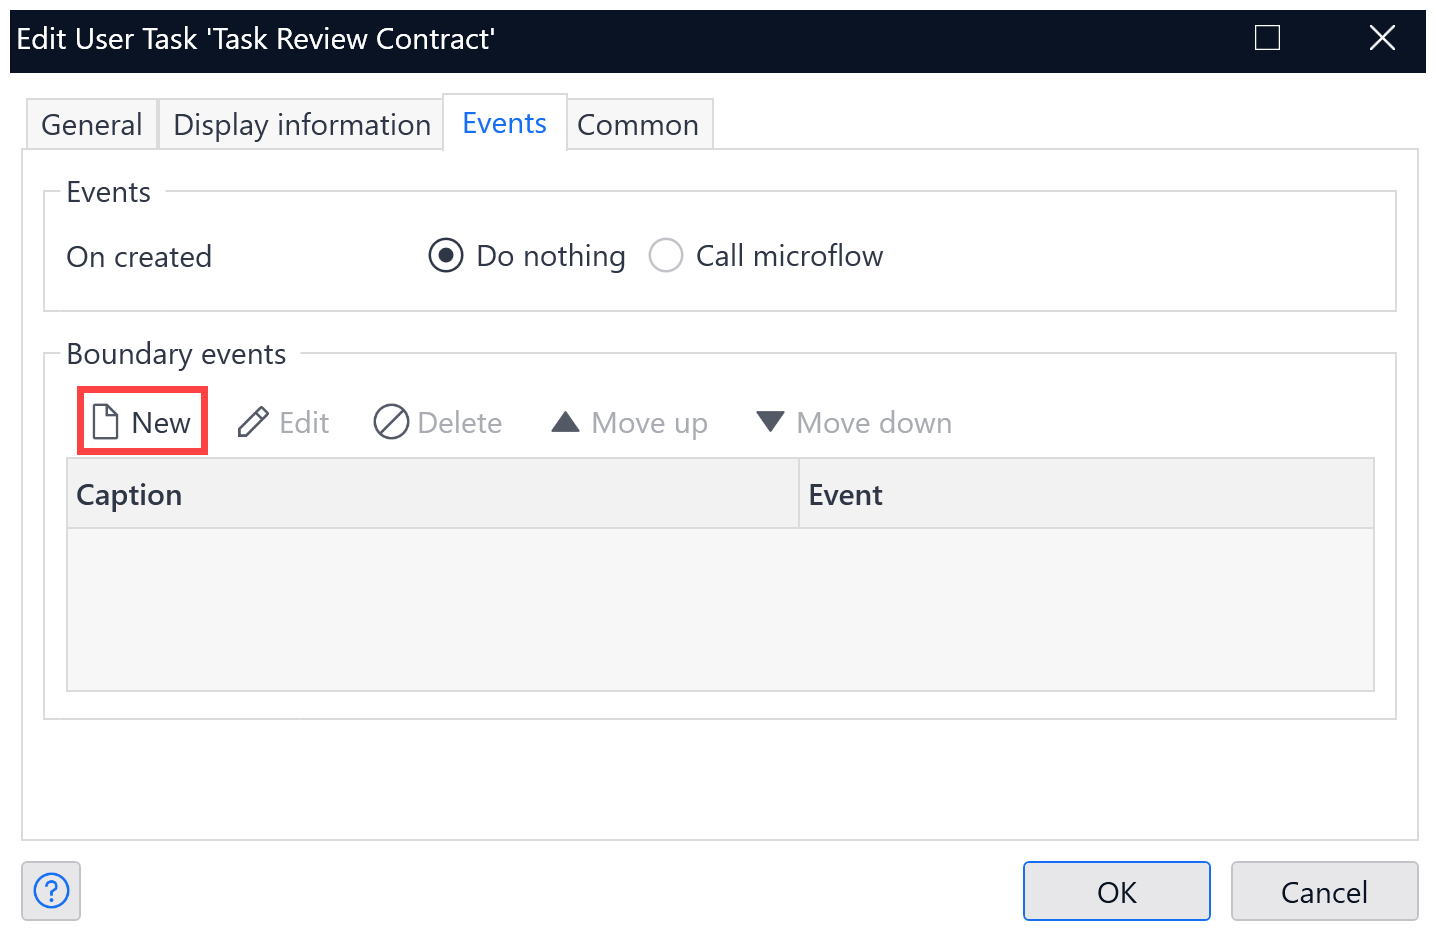
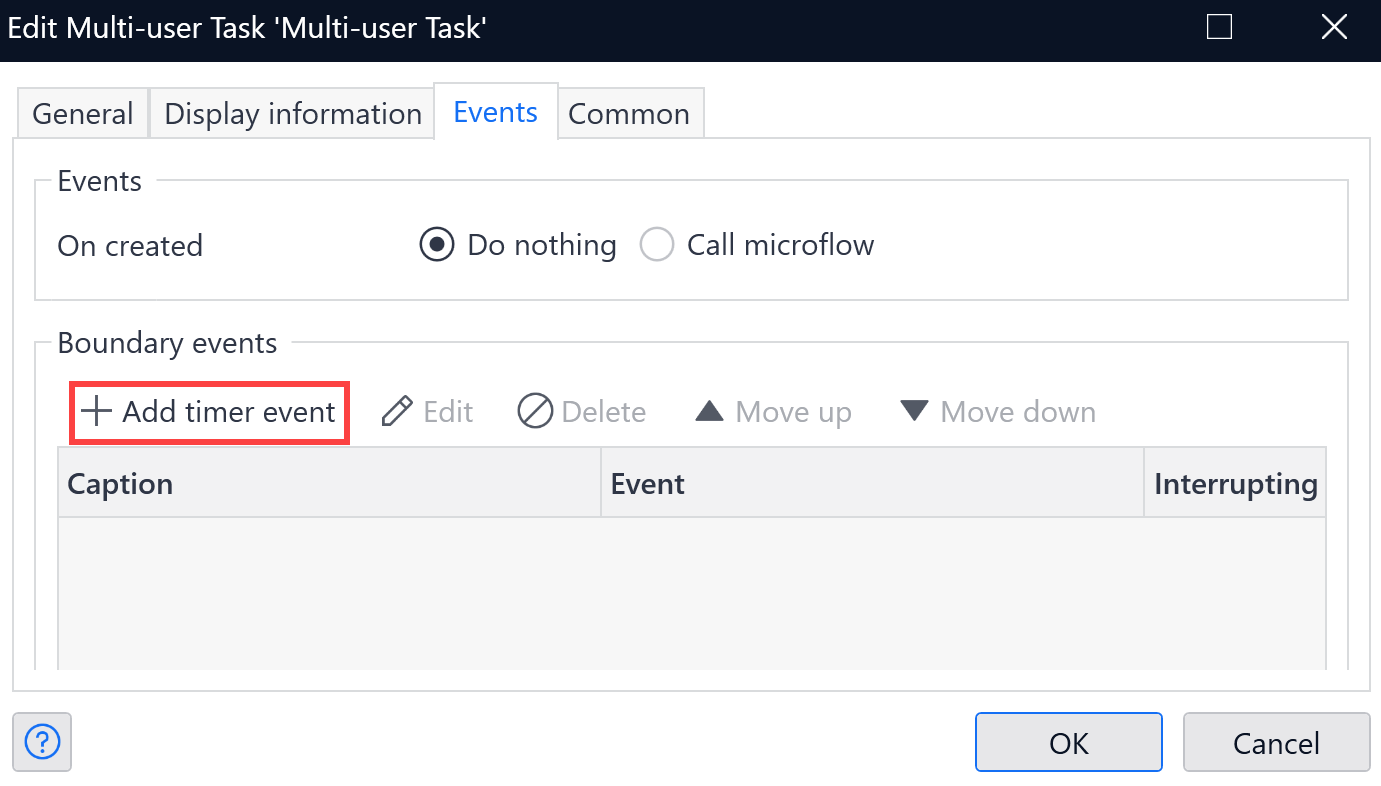
Review structure, language, and screenshots

diff --git a/content/en/docs/refguide/modeling/application-logic/workflows/boundary-events.md b/content/en/docs/refguide/modeling/application-logic/workflows/boundary-events.md
@@ -5,8 +5,9 @@ weight: 20
 ---
 
 {{% alert color="info" %}}
-- Non-interrupting timer boundary events were in public beta in Studio Pro 10.15 and released in GA in Studio Pro 10.16.
-- Interrupting boundary events are as of 10.20 in an opt-in public beta. Please note that certain features or attributes may be subject to change and may contain bugs.
+Non-interrupting timer boundary events were introduced in beta in Studio Pro 10.15 and released in GA in Studio Pro 10.16.
+
+Interrupting timer boundary events were introduced in Studio Pro 10.20 and is currently in beta. Certain features or attributes are subject to change and may contain bugs. For more information, see [Beta and Experimental Releases](/releasenotes/beta-features/).
 {{% /alert %}}
 
 ## Introduction
@@ -16,12 +17,11 @@ Based on Business Process Model and Notation (BPMN) 2.0, boundary events are a t
 There are two main types of boundary events:
 
 * Non-interrupting boundary events: These events do not interrupt the ongoing activity. When triggered, they allow the activity to continue while simultaneously starting a new path from the boundary event. As per BPMN 2.0 specification, non-interrupting boundary events are visualized as two dashed circles with an icon in the center.
-* Interrupting boundary events: When these events are triggered, they interrupt the normal path of the activity they are attached to. The activity stops and the process flow is redirected to the boundary event's outgoing sequence path. As per BPMN 2.0 specification, interrupting boundary events are visualized as two solid circles. 
-    {{% alert color="info" %}}Interrupting boundary events are available as an opt-in public beta{{% /alert %}}
+* Interrupting boundary events (currently in beta): When these events are triggered, they interrupt the normal path of the activity they are attached to. The activity stops and the process flow is redirected to the boundary event's outgoing sequence path. As per BPMN 2.0 specification, interrupting boundary events are visualized as two solid circles.
 
 Boundary Events are always displayed by 2 circles (either solid or dashed) and are linked by a dotted line to the parent activity. The icon inside the event indicates the type of event. For example, a clock indicates that it is a timer boundary event.
 
-Below is an example of how a timer boundary event looks like:
+Below is an example of how a non-interrupting timer boundary event looks like:
 
 {{< figure src="/attachments/refguide/modeling/application-logic/workflows/boundary-events/drag-drop.png" alt="Adding boundary events through drag and drop" width="200" >}}
 
@@ -43,32 +43,39 @@ Studio Pro now supports the following boundary event:
 When a boundary event is added to an activity, this activity is also referred to as the parent activity of the boundary event.
 {{% /alert %}}
 
-### Enabling interrupting boundary events
-
-To get started with the new interrupting boundary events feature, these can be enabled by opening Studio Pro's settings and navigating to new features (this setting is only applicable during the beta).
-
-- Windows: Preferences -> New Features -> Enable interrupting timer boundary events (beta)
-- Mac (Beta): Preferences -> New Features -> Enable interrupting timer boundary events (beta)
-
-{{< figure src="/attachments/refguide/modeling/application-logic/workflows/workflow-elements/boundary-events/experimental-features.png" alt="Experimental option" width="450" class="no-border">}}
-
 ### Adding Boundary Events
+
+{{% alert color="info" %}}
+Currently, a timer boundary event is added by default since it is the only option.
+{{% /alert %}}
 
 To add a boundary event to the [above-listed activities](#supported-activities), choose one of the following ways:
 
-* Select an event from the **Events** section in the workflow **Toolbox** and drag it onto one of the activities listed above.
+* Select an event from the **Events** section in the workflow **Toolbox** and drag it onto one of the activities listed above:
 
     {{< figure src="/attachments/refguide/modeling/application-logic/workflows/boundary-events/drag-drop.png" alt="Adding boundary events through drag and drop" width="200" >}}
 
-* Right-click one of the above-listed activities to open its context menu, and click **Add boundary event**.
+* Right-click one of the above-listed activities to open its context menu, and click **Add boundary event**:
 
     {{< figure src="/attachments/refguide/modeling/application-logic/workflows/boundary-events/context-menu.png" alt="Adding boundary events through context menu" width="200" >}}
 
-* Double-click one of the above-listed activities to open its properties dialog box, go to the **Events** tab, and in the > **Boundary events** section, click **New** to add a new boundary event.
+* Double-click one of the above-listed activities to open its properties dialog box, go to the **Events** tab, and in the > **Boundary events** section, click **Add timer event** to add a timer boundary event:
 
     {{< figure src="/attachments/refguide/modeling/application-logic/workflows/boundary-events/edit-dialog.png" alt="Adding boundary events through edit dialog" width="450" >}}
 
 To configure the properties of a boundary event, double-click the event to open its properties dialog box. For more information on how to configure the properties of a timer boundary event, see the [Properties](/refguide/timer/#properties) section in *Timer*.
+
+#### Enabling and Adding Interrupting Boundary Events (Beta)
+
+Interrupting boundary events are currently in beta. To enable this feature, go to Studio Pro **Preferences** -> **New features** -> **Workflow editor** > **Enable interrupting timer boundary events (beta)**:
+
+{{< figure src="/attachments/refguide/modeling/application-logic/workflows/boundary-events/enable-interrupting-boundary-event.png" alt="Enable interrupting boundary event" width="450">}}
+
+After adding interrupting boundary events is enabled, the **Boundary properties** section shows up in the properties dialog box of a boundary event.
+
+By default, the **Interrupting** property is set to **No**, which means that it is by default adding a non-interrupting boundary event. To add an interrupting boundary event, set the **Interrupting** property to **Yes**. Click **OK** to save your configuration:
+
+{{< figure src="/attachments/refguide/modeling/application-logic/workflows/boundary-events/interrupting-property.png" alt="Changing the type of boundary event" width="450">}}
 
 ### Rearranging Boundary Events
 
@@ -84,20 +91,16 @@ You can rearrange boundary events in the following ways:
 
     {{% alert color="info" %}}This does not change the order execution of the paths, as this is dependent on the expiration of the timer.{{% /alert %}}
 
-### Adding interrupting boundary events
-
-Interrupting boundary events can be added by going to the properties of a non-interrupting boundary event. Within the properties of a boundary event is a radio button which sets either the boundary event to interrupting or non-interrupting. The type change however is only fullfilled when the OK button is pressed.
-
-{{< figure src="/attachments/refguide/modeling/application-logic/workflows/workflow-elements/boundary-events/radio-button.png" alt="Changing the type of boundary event" width="450" class="no-border">}}
-
 ## Execution
 
 Boundary events are initiated when their parent activity is initiated. For example, for a timer with a fixed duration, it will start its count down when the parent activity is initiated. When the parent activity is completed before any of the boundary events are triggered, none of the activities in the boundary event path will be executed and all timers will be cancelled.
 
-### Non-interrupting boundary events
+### Non-Interrupting Boundary Events
+
 With non-interrupting boundary events the parent activity remains active/in progress when an event is triggered (i.e., the parent activity is not interrupted). For example, when a timer event on a user task is triggered after 2 days, this task will remain in progress and the path defined below the timer event is executed. When the boundary event path reaches the **End of Boundary Path** activity, the workflow will await the completion of the parent activity.
 
-### Interrupting boundary events
+### Interrupting Boundary Events
+
 However with interrupting boundary events, the parent activity as the name implies is interrupted. For example, when an interrupting timer boundary event is set on a user task and is also triggered after 2 days, this task will be cancelled, and the path defined below the timer event is now the only path which will be finished. Currently only **End Workflow** activities are allowed at the end of an interrupting boundary event. 
 
 ## Boundary Event Variables

diff --git a/content/en/docs/refguide/modeling/application-logic/workflows/workflow-elements/timer.md b/content/en/docs/refguide/modeling/application-logic/workflows/workflow-elements/timer.md
@@ -21,7 +21,7 @@ It can be used in the following two ways:
 
     {{< figure src="/attachments/refguide/modeling/application-logic/workflows/workflow-elements/timer/standalone-timer-activity.png" alt="Standalone Timer activity" width="250" >}}
 
-* **Timer** can also be attached to another workflow activity as a [Boundary Event](/refguide/workflow-boundary-events/) (in Studio Pro 10.15.0 and above):
+* **Timer** can also be attached to another workflow activity as a [Boundary Event](/refguide/workflow-boundary-events/) (released in GA in Studio Pro 10.16):
 
     {{< figure src="/attachments/refguide/modeling/application-logic/workflows/workflow-elements/timer/timer-boundary-event.png" alt="Timer boundary event" width="300" >}}
 
@@ -30,12 +30,25 @@ It can be used in the following two ways:
 **Timer** properties consist of the following sections:
 
 * [General](#general)
+* [Boundary properties](#boundary-properties)
 * [Timer](#timer)
 * [Common](#common)
 
 ### General Section {#general}
 
 The **Caption** describes what happens in this element. It is displayed under the workflow element to make the **Timer** easier to read and understand without the need to add annotations.
+
+### Boundary Properties {#boundary-properties}
+
+{{% alert color="info" %}}
+This section is only applicable when **Timer** is used as a timer boundary event.
+
+This section shows up if interrupting timer boundary events (beta) is enabled through Studio Pro **Preferences** -> **New features** -> **Workflow editor** > **Enable interrupting timer boundary events (beta)**.
+{{% /alert %}}
+
+The **Interrupting** property sets the timer boundary to either interrupting or non-interrupting.
+
+By default, it is set to **No**, which means that the timer boundary event is non-interrupting. When it is set to **Yes**, the timer boundary event is interrupting. For more information, see [Boundary Events](/refguide/workflow-boundary-events/).
 
 ### Timer Section {#timer}
 
